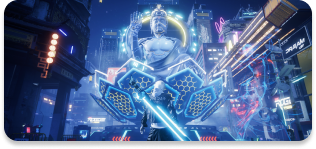
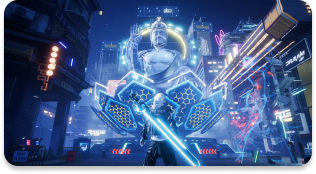
幻燈片需再修正

diff --git a/src/component/Carousel.js b/src/component/Carousel.js
@@ -1,15 +1,17 @@
-import React, { useRef } from 'react';
+import React, { useRef, useEffect } from 'react';
 import { View, StyleSheet, ScrollView, Image, Dimensions, TouchableOpacity, Text } from 'react-native';
 import carouselData from '../../src/json/carouselData.json'; 
+import { AntDesign } from '@expo/vector-icons';
 
 const { width } = Dimensions.get('window');
 
 const Carousel = () => {
   const scrollViewRef = useRef();
 
-  const handleScroll = (event) => {
-    const contentOffsetX = event.nativeEvent.contentOffset.x;
-  };
+  useEffect(() => {
+    const interval = setInterval(handlePressNext, 3000); // 自動輪播間隔為 3 秒
+    return () => clearInterval(interval); // 清除定時器
+  }, []);
 
   const handlePressNext = () => {
     scrollViewRef.current.scrollTo({ x: width, animated: true });
@@ -26,10 +28,9 @@ const Carousel = () => {
         horizontal
         pagingEnabled
         showsHorizontalScrollIndicator={false}
-        onScroll={handleScroll}
         scrollEventThrottle={16}
       >
-        {/* 在這里渲染輪播項 */}
+        {/* 渲染輪播項 */}
         {carouselData.map((item, index) => (
           <View key={index} style={styles.carouselItem}>
             <Image source={{ uri: item.image }} style={styles.image} />
@@ -38,10 +39,10 @@ const Carousel = () => {
       </ScrollView>
       {/* 添加前進和後退按鈕 */}
       <TouchableOpacity style={[styles.navButton, styles.prevButton]} onPress={handlePressPrev}>
-        <Text style={styles.navButtonText}>Prev</Text>
+        <AntDesign name="left" size={24} color="white" />
       </TouchableOpacity>
       <TouchableOpacity style={[styles.navButton, styles.nextButton]} onPress={handlePressNext}>
-        <Text style={styles.navButtonText}>Next</Text>
+        <AntDesign name="right" size={24} color="white" />
       </TouchableOpacity>
     </View>
   );
@@ -51,14 +52,14 @@ const styles = StyleSheet.create({
   carouselContainer: {
     position: 'relative',
     width: '100%',
-    height: 200,
+    marginTop: 20,
+    height: 300,
   },
   carouselItem: {
     width,
     height: 200,
   },
   image: {
-    zIndex:1,
     width: '100%',
     height: '100%',
     resizeMode: 'cover',
@@ -67,8 +68,8 @@ const styles = StyleSheet.create({
     position: 'absolute',
     top: '50%',
     paddingHorizontal: 20,
-    paddingVertical: 10,
-    backgroundColor: 'rgba(0, 0, 0, 0.5)',
+    paddingVertical: 0,
+    backgroundColor: 'rgba(0, 0, 0, 0)',
     borderRadius: 5,
     zIndex: 1,
   },
